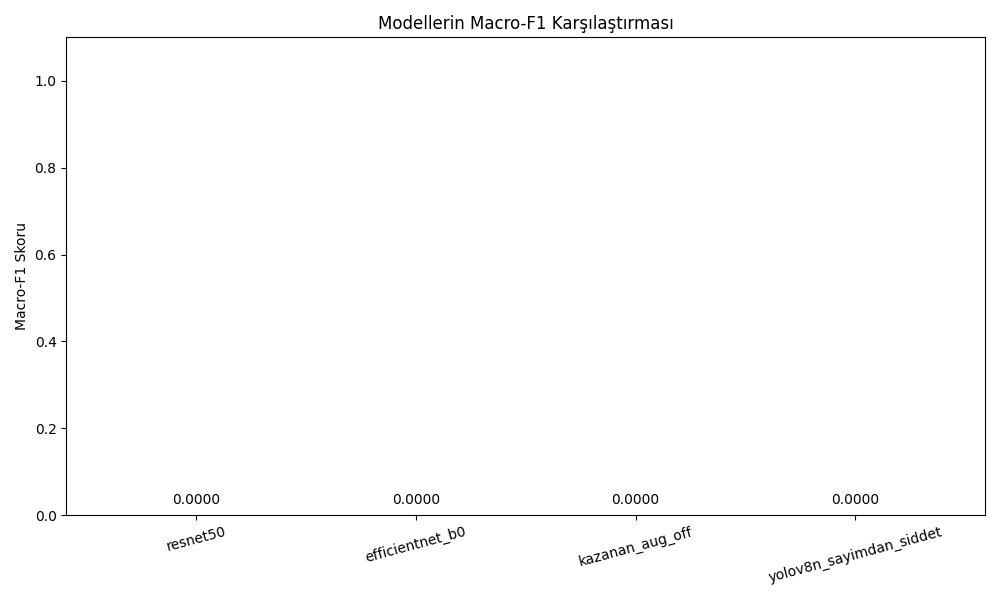
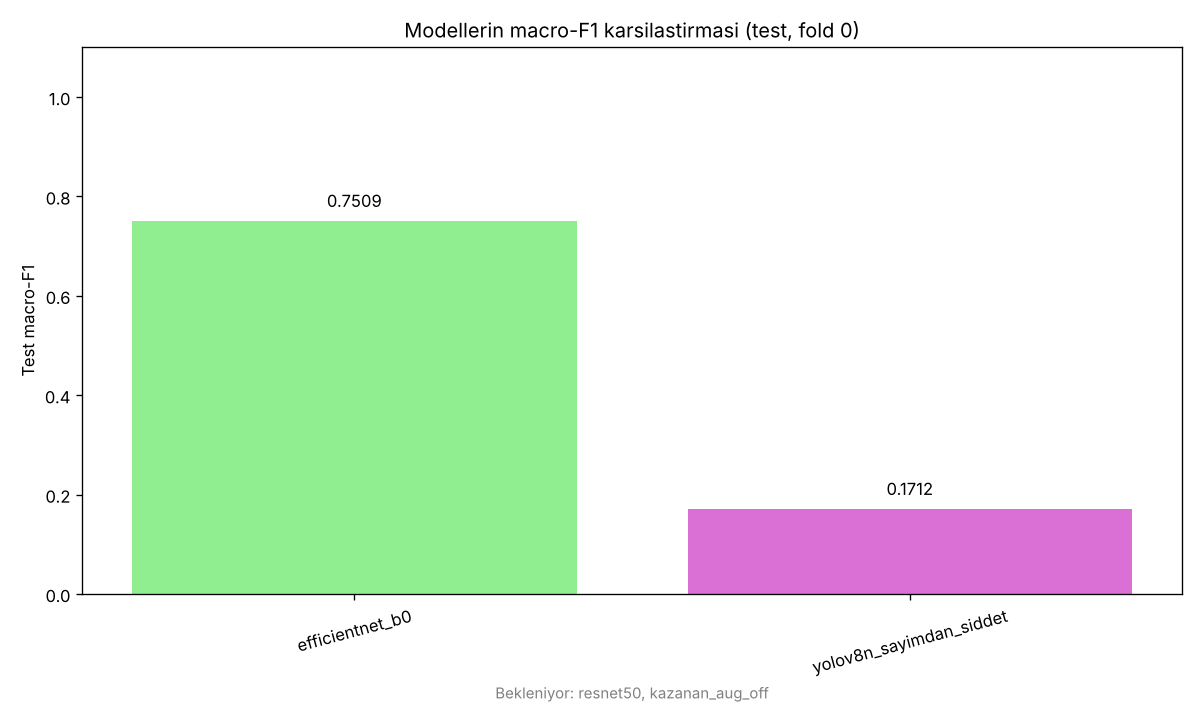
fix: skip empty rows in figures, update protocol and teacher note

diff --git a/src/sekiller.py b/src/sekiller.py
@@ -1,78 +1,93 @@
-import pandas as pd
+"""Hoca notunun iki figurunu uretir.
+
+    python src/sekiller.py
+
+results/results.csv okunur. Sayisi olmayan satir grafige girmez (0 diye cizilmez).
+Karisiklik figurunde dosyasi olmayan panel bos kalir. Betik her durumda hatasiz biter.
+"""
+
+from pathlib import Path
+
+import matplotlib
+
+matplotlib.use("Agg")
 import matplotlib.pyplot as plt
-import os
+import pandas as pd
 from PIL import Image
 
-# 1. Macro-F1 Çubuğu Grafiği
-try:
-    # CSV dosyasını oku
-    df = pd.read_csv('results/results.csv')
-    
-    # İstenen modelleri filtrele (yolov8n bu grafikte olmamalı)
-    istenen_modeller = ['resnet50', 'efficientnet_b0', 'kazanan_aug_off', 'yolov8n_sayimdan_siddet']
-    df_filtered = df[df['model'].isin(istenen_modeller)].copy()
+ROOT = Path(__file__).resolve().parents[1]
+RESULTS = ROOT / "results"
 
-    # Sayı olmayan (boş) değerleri 0 kabul et ki kod çökmesin
-    df_filtered['macro_f1'] = pd.to_numeric(df_filtered['macro_f1'], errors='coerce').fillna(0)
+# Sira ve renk modele bagli; bir satir eksik olsa da digerlerinin rengi kaymaz.
+# yolov8n bilerek yok: o satirdaki sayi mAP@0.5'tir, macro-F1 degildir.
+MODELLER = {
+    "resnet50": "skyblue",
+    "efficientnet_b0": "lightgreen",
+    "kazanan_aug_off": "salmon",
+    "yolov8n_sayimdan_siddet": "orchid",
+}
 
-    # Çubuk grafiği çizimi
-    plt.figure(figsize=(10, 6))
-    renkler = ['skyblue', 'lightgreen', 'salmon', 'orchid']
-    bars = plt.bar(df_filtered['model'], df_filtered['macro_f1'], color=renkler[:len(df_filtered)])
-    
-    plt.ylim(0, 1.1)
-    plt.ylabel('Macro-F1 Skoru')
-    plt.title('Modellerin Macro-F1 Karşılaştırması')
-    plt.xticks(rotation=15)
 
-    # Barların üzerine değerlerini yazdır
-    for bar in bars:
-        yval = bar.get_height()
-        plt.text(bar.get_x() + bar.get_width()/2, yval + 0.02, f"{yval:.4f}", ha='center', va='bottom')
+def macro_f1_figuru() -> None:
+    csv_yolu = RESULTS / "results.csv"
+    if not csv_yolu.exists():
+        print("results.csv yok, sekil_macro_f1.png atlandi.")
+        return
+    df = pd.read_csv(csv_yolu)
+    df = df[df["model"].isin(MODELLER)].copy()
+    df["macro_f1"] = pd.to_numeric(df["macro_f1"], errors="coerce")
+    df = df.dropna(subset=["macro_f1"])
+    df["sira"] = df["model"].map(list(MODELLER).index)
+    df = df.sort_values("sira")
 
-    plt.tight_layout()
-    plt.savefig('results/sekil_macro_f1.png')
-    plt.close()
-    print("sekil_macro_f1.png basariyla olusturuldu (Bos/Sifir verilerle).")
+    fig, ax = plt.subplots(figsize=(10, 6))
+    if df.empty:
+        ax.text(0.5, 0.5, "Henuz macro-F1 sayisi yok", ha="center", va="center", transform=ax.transAxes)
+    else:
+        bars = ax.bar(df["model"], df["macro_f1"], color=[MODELLER[m] for m in df["model"]])
+        for bar in bars:
+            y = bar.get_height()
+            ax.text(bar.get_x() + bar.get_width() / 2, y + 0.02, f"{y:.4f}", ha="center", va="bottom")
+    eksik = [m for m in MODELLER if m not in set(df["model"])]
+    if eksik:
+        ax.set_xlabel("Bekleniyor: " + ", ".join(eksik), fontsize=9, color="gray")
+    ax.set_ylim(0, 1.1)
+    ax.set_ylabel("Test macro-F1")
+    ax.set_title("Modellerin macro-F1 karsilastirmasi (test, fold 0)")
+    plt.setp(ax.get_xticklabels(), rotation=15)
+    fig.tight_layout()
+    fig.savefig(RESULTS / "sekil_macro_f1.png", dpi=120)
+    plt.close(fig)
+    print(f"sekil_macro_f1.png yazildi. Cizilen: {list(df['model'])}. Eksik: {eksik}")
 
-except Exception as e:
-    print(f"Macro-F1 grafikleri cizilirken hata: {e}")
 
-# 2. Karışıklık Matrislerini Yan Yana Basma
-try:
+def karisiklik_figuru() -> None:
+    kazanan_yolu = RESULTS / "kazanan.txt"
+    kazanan = kazanan_yolu.read_text(encoding="utf-8").strip() if kazanan_yolu.exists() else None
+
     fig, axes = plt.subplots(1, 2, figsize=(12, 6))
+    paneller = [
+        ("Artirmali (kazanan)", f"cm_{kazanan}.png" if kazanan else None),
+        ("Artirmasiz (aug_off)", f"cm_{kazanan}_aug_off.png" if kazanan else None),
+    ]
+    for ax, (baslik, ad) in zip(axes, paneller):
+        ax.axis("off")
+        if ad and (RESULTS / ad).exists():
+            ax.imshow(Image.open(RESULTS / ad))
+            ax.set_title(f"{baslik}\n{ad}")
+        else:
+            mesaj = f"results/{ad}\nbekleniyor" if ad else "results/kazanan.txt\nbekleniyor"
+            ax.text(0.5, 0.5, mesaj, ha="center", va="center")
+            ax.set_title(baslik)
+    fig.tight_layout()
+    fig.savefig(RESULTS / "sekil_karisiklik.png", dpi=120)
+    plt.close(fig)
+    print(f"sekil_karisiklik.png yazildi. Kazanan: {kazanan or 'henuz yok'}")
 
-    # Kazanan model txt'si gelmediyse varsayılan olarak resnet50 arayalım
-    kazanan_model = "resnet50"
-    if os.path.exists('results/kazanan.txt'):
-        with open('results/kazanan.txt', 'r') as f:
-            kazanan_model = f.read().strip()
 
-    artirmali_yol = f'results/cm_{kazanan_model}.png'
-    artirmasiz_yol = f'results/cm_{kazanan_model}_aug_off.png'
-
-    # Sol panel: Artırmalı matris
-    if os.path.exists(artirmali_yol):
-        img1 = Image.open(artirmali_yol)
-        axes[0].imshow(img1)
-        axes[0].set_title('Artırmalı Matris (Kazanan)')
-    else:
-        axes[0].text(0.5, 0.5, f'{artirmali_yol}\nbekleniyor...', ha='center', va='center')
-    axes[0].axis('off')
-
-    # Sağ panel: Artırmasız matris
-    if os.path.exists(artirmasiz_yol):
-        img2 = Image.open(artirmasiz_yol)
-        axes[1].imshow(img2)
-        axes[1].set_title('Artırmasız Matris (aug_off)')
-    else:
-        axes[1].text(0.5, 0.5, f'{artirmasiz_yol}\nbekleniyor...', ha='center', va='center')
-    axes[1].axis('off')
-
-    plt.tight_layout()
-    plt.savefig('results/sekil_karisiklik.png')
-    plt.close()
-    print("sekil_karisiklik.png basariyla olusturuldu (Goruntuler gelene kadar yer tutucularla).")
-
-except Exception as e:
-    print(f"Karisiklik matrisi figurleri birlestirilirken hata: {e}")
+if __name__ == "__main__":
+    for adim in (macro_f1_figuru, karisiklik_figuru):
+        try:
+            adim()
+        except Exception as hata:  # betik hata vermeden cikmali
+            print(f"{adim.__name__} sirasinda hata: {hata}")

diff --git a/docs/hoca_notu.md b/docs/hoca_notu.md
@@ -6,8 +6,15 @@ ACNE04, 1.457 yüz fotoğrafı ve 18.983 lezyon kutusu içerir. Kaynak Wu ve ark
 Şiddet Hayashi aralığıdır: 0 hafif (1–5), 1 orta (6–20), 2 şiddetli (21–50), 3 çok şiddetli (51 ve üzeri).
 Sınıf sayıları: 513, 633, 182, 129.
 Ölçüm makalenin fold 0 ayrımıdır: 1.165 eğitim tarafı, 292 test. Doğrulama yalnız 1.165’in içinden, tohum 42 ve katmanlı %15 ile ayrılmıştır.
-Makaledeki test dökümü: hafif 103, orta 127, şiddetli 36, çok şiddetli 26.
-(Not: Doğrulama kümesinin sınıf bazında tam sayıları data/split_ozet.csv dosyasından buraya aktarılacak.)
+
+| Küme | Hafif (0) | Orta (1) | Şiddetli (2) | Çok şiddetli (3) | Toplam |
+|---|---|---|---|---|---|
+| Eğitim | 348 | 430 | 124 | 88 | 990 |
+| Doğrulama | 62 | 76 | 22 | 15 | 175 |
+| Test | 103 | 127 | 36 | 26 | 292 |
+
+Kaynak: data/split_ozet.csv. Test dökümü makaledeki fold 0 testiyle aynıdır.
+Çok şiddetli sınıf testte yalnız 26 görüntüdür; bu sınıfın recall değeri tek bir görüntüyle yaklaşık 4 puan oynar ve oynak okunmalıdır.
 
 ## Deney düzeni
 İki sınıflandırıcı, ortak ayarlar, kazananın doğrulama macro-F1’i ile seçilmesi.
@@ -22,7 +29,9 @@ Makaledeki test dökümü: hafif 103, orta 127, şiddetli 36, çok şiddetli 26.
 (Kişi 1'in 10 görüntüsünden kısa okuma buraya eklenecek)
 
 ## Lezyon tespiti
-(mAP@0.5 skoru, kutu sayısından üretilen şiddet skoru ve hiç kutu çıkmayan görüntü sayısı buraya eklenecek)
+Tek sınıflı (lezyon) YOLOv8-Nano, 640 piksel girdi ve 50 epoch ile eğitilmiştir. Test kümesinde mAP@0.5 değeri 0,3118’dir.
+Güven eşiği 0,25 üstündeki kutular sayılıp Hayashi aralığına konduğunda, bu sayımdan üretilen şiddet gerçek level ile karşılaştırılmıştır: doğruluk 0,3836, macro-F1 0,1712. Hafif sınıf recall’u 1,0000, orta 0,0709, şiddetli ve çok şiddetli 0,0000’dır; dedektör lezyonları eksik saydığı için tahminler hafif sınıfta toplanmıştır.
+292 test görüntüsünün 71’inde eşiğin üstünde hiç kutu çıkmamış, bu görüntüler kural gereği hafif sayılmıştır.
 
 ## Sınırlar
 Tek fold, çok şiddetli sınıfta 26 test görüntüsü, klinik karar aracı değil.

diff --git a/docs/protokol.md b/docs/protokol.md
@@ -2,7 +2,11 @@ Soru: aynı modelde yatay çevirme ve en fazla 10° döndürme, test macro-F1’
 
 Model, results/kazanan.txt içindeki addır. Seçim doğrulama macro-F1’i iledir.
 
-Sabitler: 224×224, ImageNet normalizasyonu, ImageNet ağırlığı, AdamW, öğrenme oranı 1e-4, batch 16, en fazla 30 epoch, doğrulama macro-F1’i 5 epoch iyileşmezse dur, tohum 42, çapraz entropi, sınıf ağırlığı yok.
+Artırmalı koşu Kişi 1 veya Kişi 2 tarafından zaten yapılmıştır. Bu protokol yalnız artırmasız ikinci koşuyu ekler.
+
+Sabitler: 224×224, ImageNet normalizasyonu, ImageNet ağırlığı, AdamW, öğrenme oranı 1e-4, ağırlık azaltma (weight decay) 0,01, batch 16, en fazla 30 epoch, doğrulama macro-F1’i 5 epoch iyileşmezse dur, tohum 42, çapraz entropi, sınıf ağırlığı yok. Değerler configs/ortak.yaml dosyasından okunur.
+
+İki koşu arasındaki tek fark eğitim kümesindeki artırmadır (--aug on / --aug off). Doğrulama ve test görüntüleri iki koşuda da yalnız 224×224 ölçekleme ve ImageNet normalizasyonundan geçer.
 
 Başarı ölçütü macro-F1’dir. Doğruluk tek başına karar ölçütü değildir; orta sınıf 633 görüntüyle doğruluğu yukarı çeker.
 
